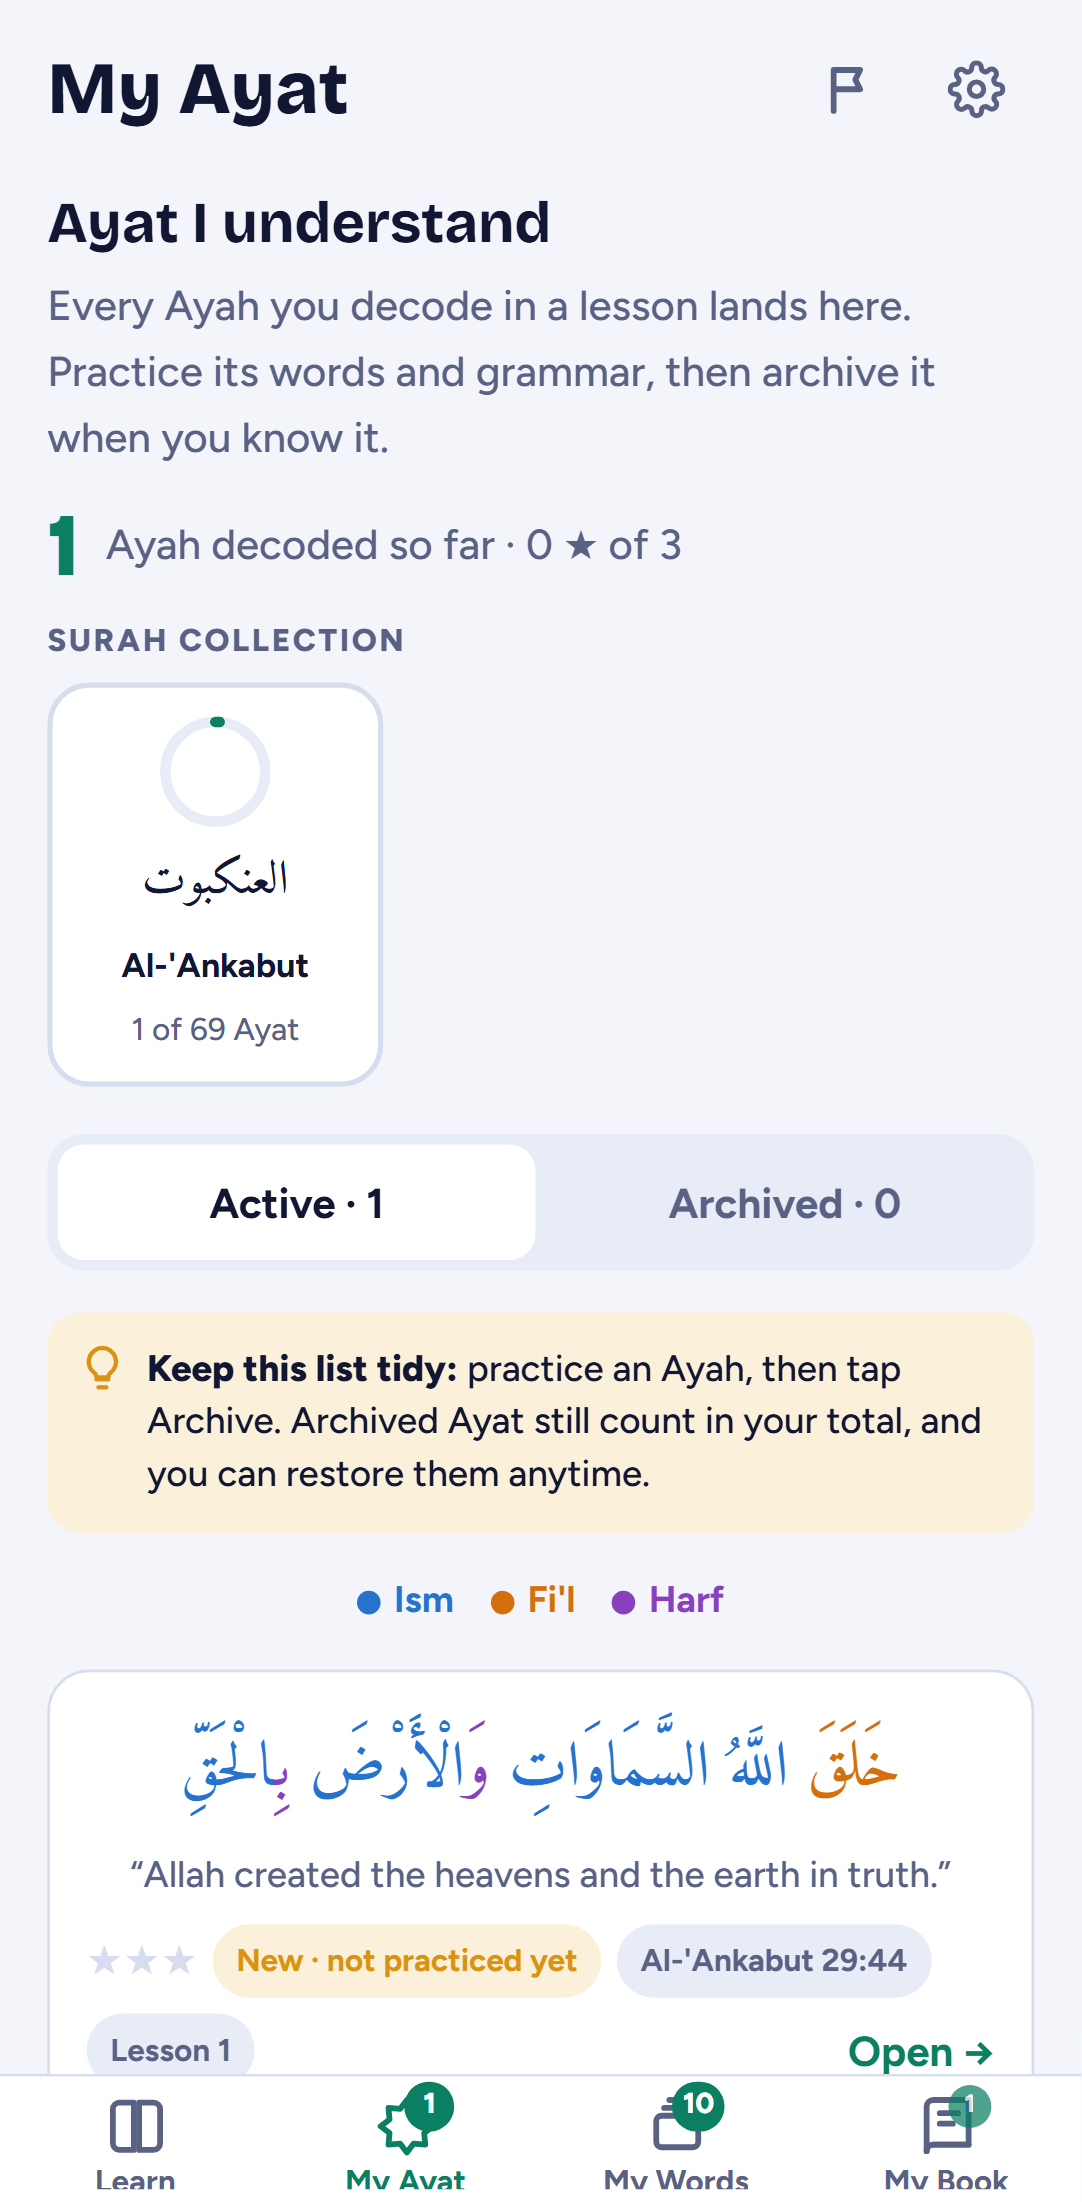
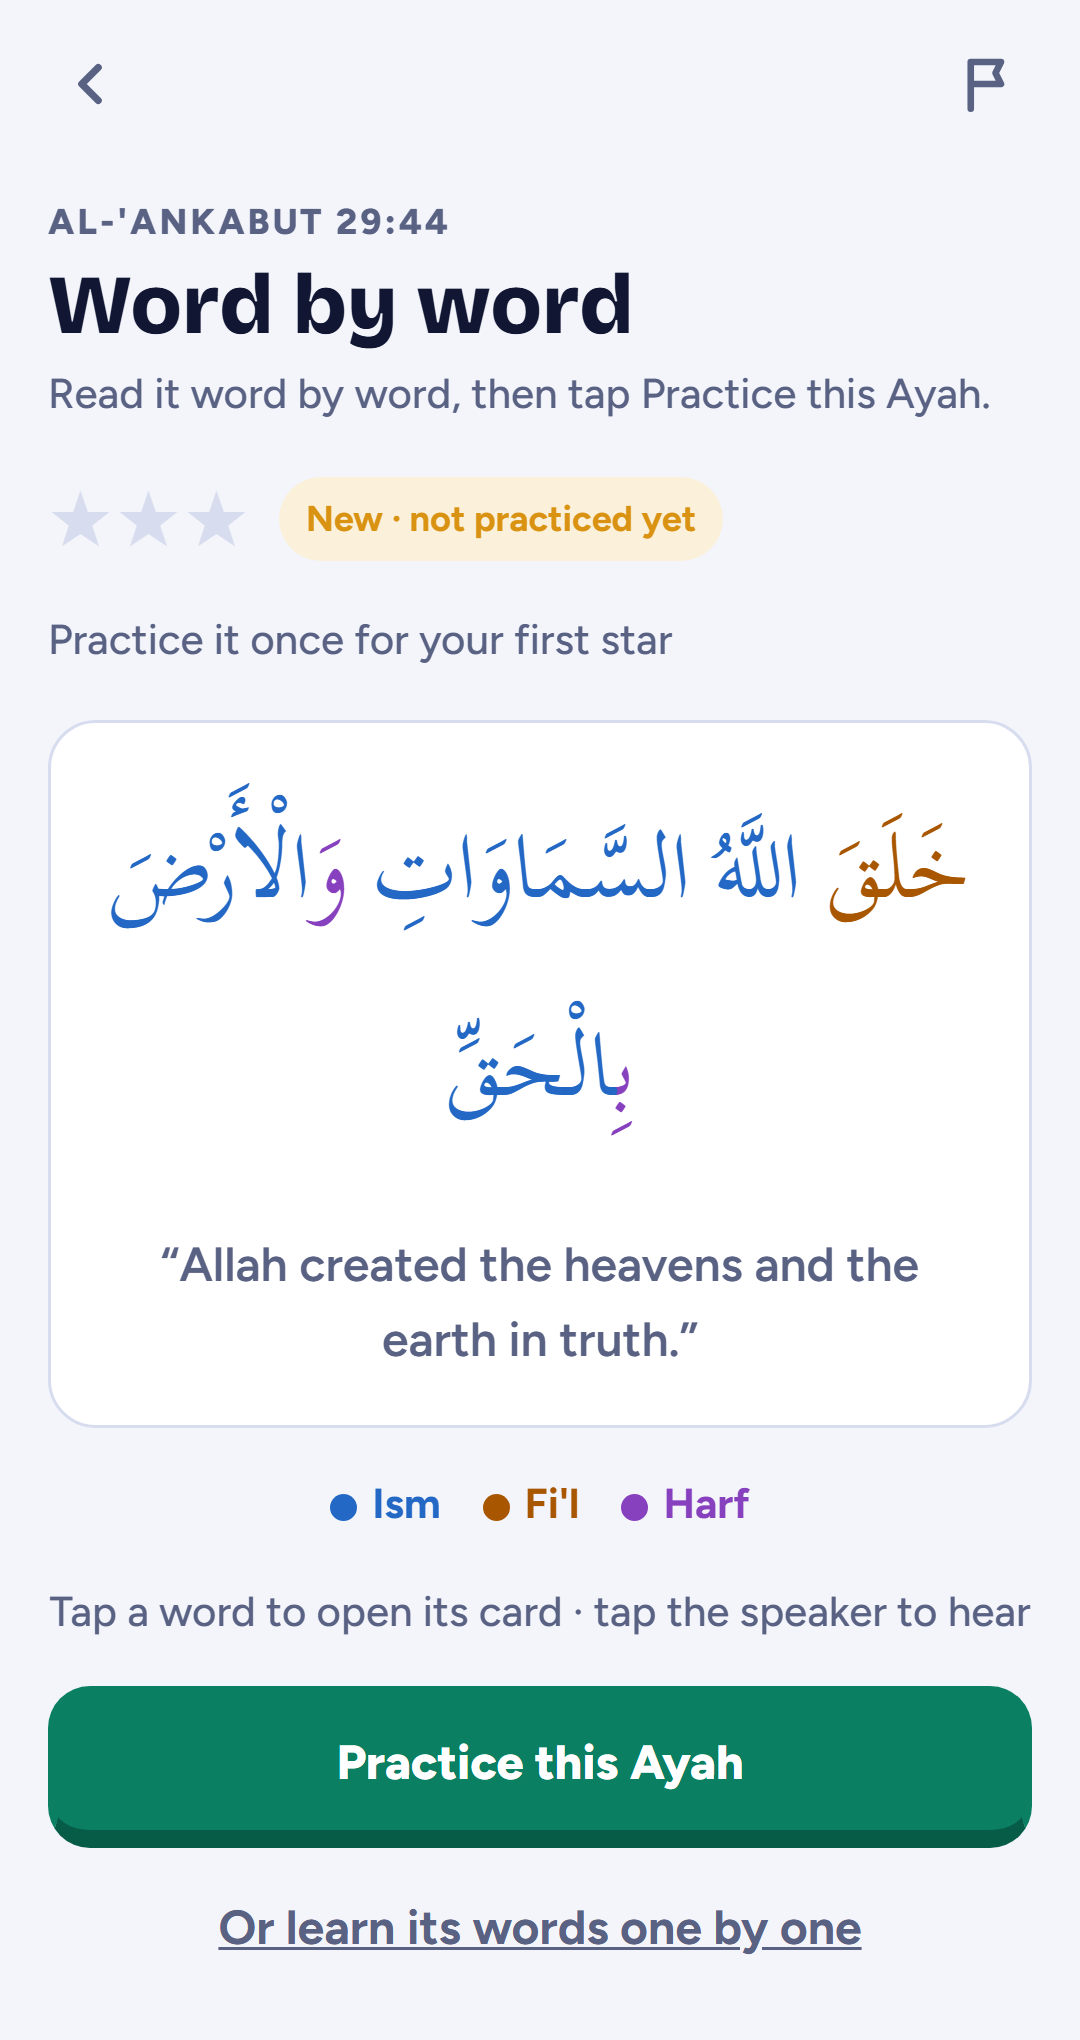
Home page: the app's three welcome points (5-minute lessons, word meanings with spaced review, every Ayah word by word), new screenshots, Android and iPhone; search basics (description, canonical, share image, app details, robots.txt, sitemap)

diff --git a/index.html b/index.html
@@ -4,12 +4,20 @@
 <meta charset="utf-8" />
 <meta name="viewport" content="width=device-width, initial-scale=1" />
 <title>Aqal: Quran Grammar</title>
-<meta name="description" content="You can read the Quran in Arabic. Now understand it: the grammar of the Quran in 5-minute lessons. Coming soon to Android." />
+<meta name="description" content="You can read the Quran in Arabic. Now understand it: Quranic Arabic grammar in 5-minute lessons, word meanings that stick, and every Ayah word by word. Coming soon to Android and iPhone." />
+<link rel="canonical" href="https://aqal.academy/" />
 <meta name="theme-color" content="#0B7F62" />
 <link rel="icon" href="img/icon.png" />
 <meta property="og:title" content="Aqal: Quran Grammar" />
 <meta property="og:description" content="Learn the Arabic grammar of the Quran in 5-minute lessons." />
-<meta property="og:image" content="img/icon.png" />
+<meta property="og:type" content="website" />
+<meta property="og:url" content="https://aqal.academy/" />
+<meta property="og:image" content="https://aqal.academy/img/share.png" />
+<meta property="og:image:width" content="1200" />
+<meta property="og:image:height" content="630" />
+<meta name="twitter:card" content="summary_large_image" />
+<meta name="twitter:image" content="https://aqal.academy/img/share.png" />
+<script type="application/ld+json">{"@context":"https://schema.org","@type":"MobileApplication","name":"Aqal: Quran Grammar","url":"https://aqal.academy/","applicationCategory":"EducationalApplication","operatingSystem":"Android, iOS","description":"Quranic Arabic grammar in 5-minute lessons, word meanings with spaced review, and every Ayah word by word.","offers":{"@type":"Offer","price":"0","priceCurrency":"USD","description":"Lessons 1 to 7 free; Premium for the rest"}}</script>
 <!-- aqal.academy landing page (owner 2026-10-14). Real app screenshots in img/ (taken from the app's web build).
      The waiting-list form adds an email to Supabase public.waitlist (insert-only; migration 20261014130000).
      config.js holds the public Supabase URL and publishable key (the same ones inside the app; written by the main repo's website/make-config.cjs). -->
@@ -142,31 +150,23 @@
         <li><span class="yes">✓</span> You read the Arabic</li>
         <li><span class="no">✗</span> The meaning passes you by</li>
       </ul>
-      <p>Aqal teaches the grammar of the Quran, one 5-minute lesson at a time. Coming soon to Android.</p>
+      <p>Aqal teaches the grammar of the Quran, one 5-minute lesson at a time. Coming soon to Android and iPhone.</p>
       <a class="btn" href="#join">Join the waiting list</a>
     </div>
-    <div class="phone rise"><img src="img/ayat.png" alt="Aqal's My Ayat screen: an Ayah from Surah Al-'Ankabut with each word coloured by its family" /></div>
+    <div class="phone rise"><img src="img/ayat.png" alt="Aqal showing Al-'Ankabut 29:44 word by word, each word coloured by its family: Ism, Fi'l or Harf" /></div>
   </header>
 </div>
 
-<section class="ayah" id="ayah">
-  <div class="wrap">
-    <p class="line ar" lang="ar"><span class="word fil">خَلَقَ</span> <span class="word ism">اللَّهُ</span> <span class="word ism">السَّمَاوَاتِ</span> <span class="word"><span class="harf">وَ</span><span class="ism">الْأَرْضَ</span></span> <span class="word"><span class="harf">بِ</span><span class="ism">الْحَقِّ</span></span></p>
-    <div class="legend"><span class="ism">Ism</span><span class="fil">Fi'l</span><span class="harf">Harf</span></div>
-    <p class="meaning">"Allah created the heavens and the earth in truth." Al-'Ankabut 29:44</p>
-    <h2>Every word belongs to one of three families.</h2>
-    <p class="why">Learn to tell them apart and an Ayah starts to open up. This is the first lesson in Aqal.</p>
-  </div>
-</section>
+
 
 <div class="wrap">
   <section class="bento">
     <div class="cell words rise">
       <div class="copy">
-        <h3>Quranic word meanings that stick</h3>
-        <p>Every new word goes into My Words. You practice it both ways, Arabic to meaning and meaning to Arabic, with spaced repetition.</p>
+        <h3>Arabic grammar in 5-minute lessons</h3>
+        <p>Short, gamified, with instant feedback. Tap the words in a real Ayah, check your answer, and see why straight away.</p>
       </div>
-      <img src="img/words.png" alt="Aqal's My Words screen with New, Learning and Archived piles" />
+      <img src="img/lesson.png" alt="An Aqal lesson page: the words of Al-'Ankabut 29:44 on cards, each with its meaning and family" />
     </div>
     <div class="cell daily rise">
       <h3>5 min</h3>
@@ -174,18 +174,31 @@
     </div>
     <div class="cell book rise">
       <div class="copy">
-        <h3>Your own grammar book</h3>
-        <p>Every lesson you finish adds its pages to My Book, so the grammar you learned is always there to review.</p>
+        <h3>Quranic word meanings that stick</h3>
+        <p>Built on the science of repetition. Every new word goes into My Words, where you practise it both ways. Words you know come back after 3, 7, 21, 60 and 120 days, just before you would forget them.</p>
       </div>
-      <img src="img/book.png" alt="Aqal's My Book screen showing the Lesson 1 chapter" />
+      <img src="img/words.png" alt="An Aqal word card: النَّاسُ, the people, an Ism that appears 241 times in the Quran" />
     </div>
   </section>
+</div>
+
+<section class="ayah" id="ayah">
+  <div class="wrap">
+    <p class="line ar" lang="ar"><span class="word fil">خَلَقَ</span> <span class="word ism">اللَّهُ</span> <span class="word ism">السَّمَاوَاتِ</span> <span class="word"><span class="harf">وَ</span><span class="ism">الْأَرْضَ</span></span> <span class="word"><span class="harf">بِ</span><span class="ism">الْحَقِّ</span></span></p>
+    <div class="legend"><span class="ism">Ism</span><span class="fil">Fi'l</span><span class="harf">Harf</span></div>
+    <p class="meaning">"Allah created the heavens and the earth in truth." Al-'Ankabut 29:44</p>
+    <h2>Go deep into the Ayat of the Quran.</h2>
+    <p class="why">Decode the grammar, understand them and practise them. Every Ayah you meet in a lesson is saved in My Ayat, word by word, in its family colours.</p>
+  </div>
+</section>
+
+<div class="wrap">
 
   <section class="join" id="join">
     <div class="box rise">
       <div>
         <h2>Be the first to know when Aqal launches.</h2>
-        <p>One email when it's on Google Play. Nothing else unless you sign up for more in the app.</p>
+        <p>One email when it's on Google Play and the App Store. Nothing else unless you sign up for more in the app.</p>
       </div>
       <form id="wait" novalidate>
         <label for="email">Your email</label>
